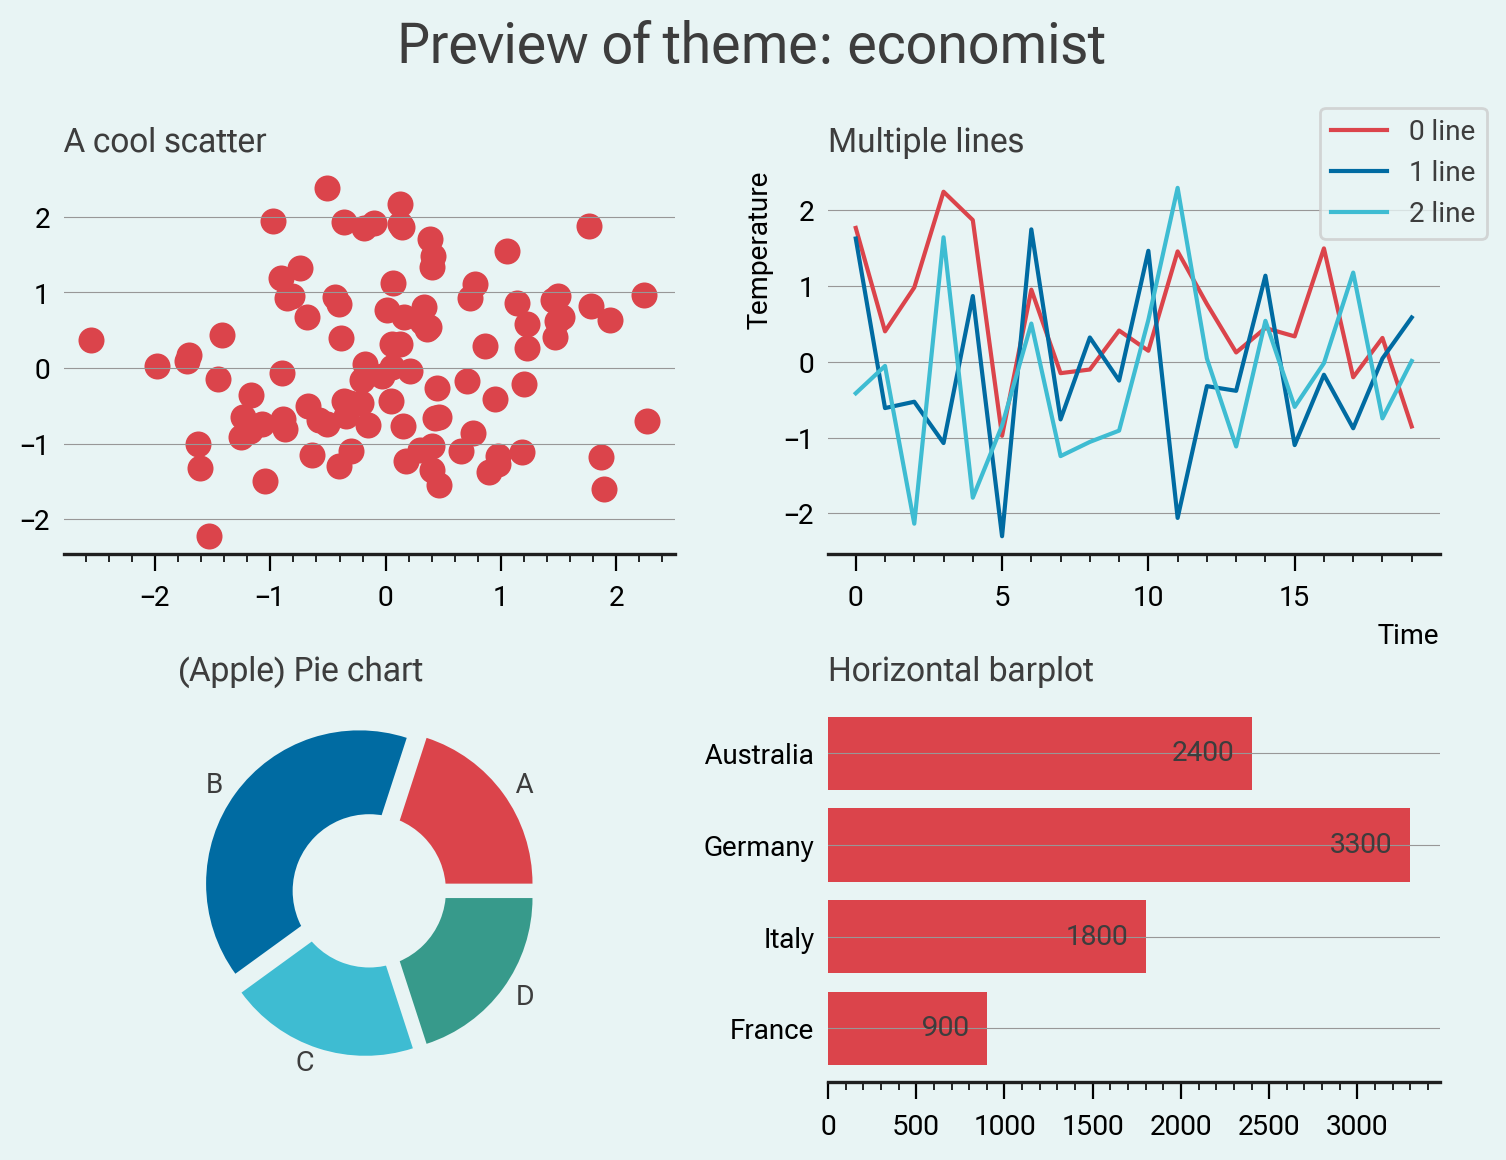
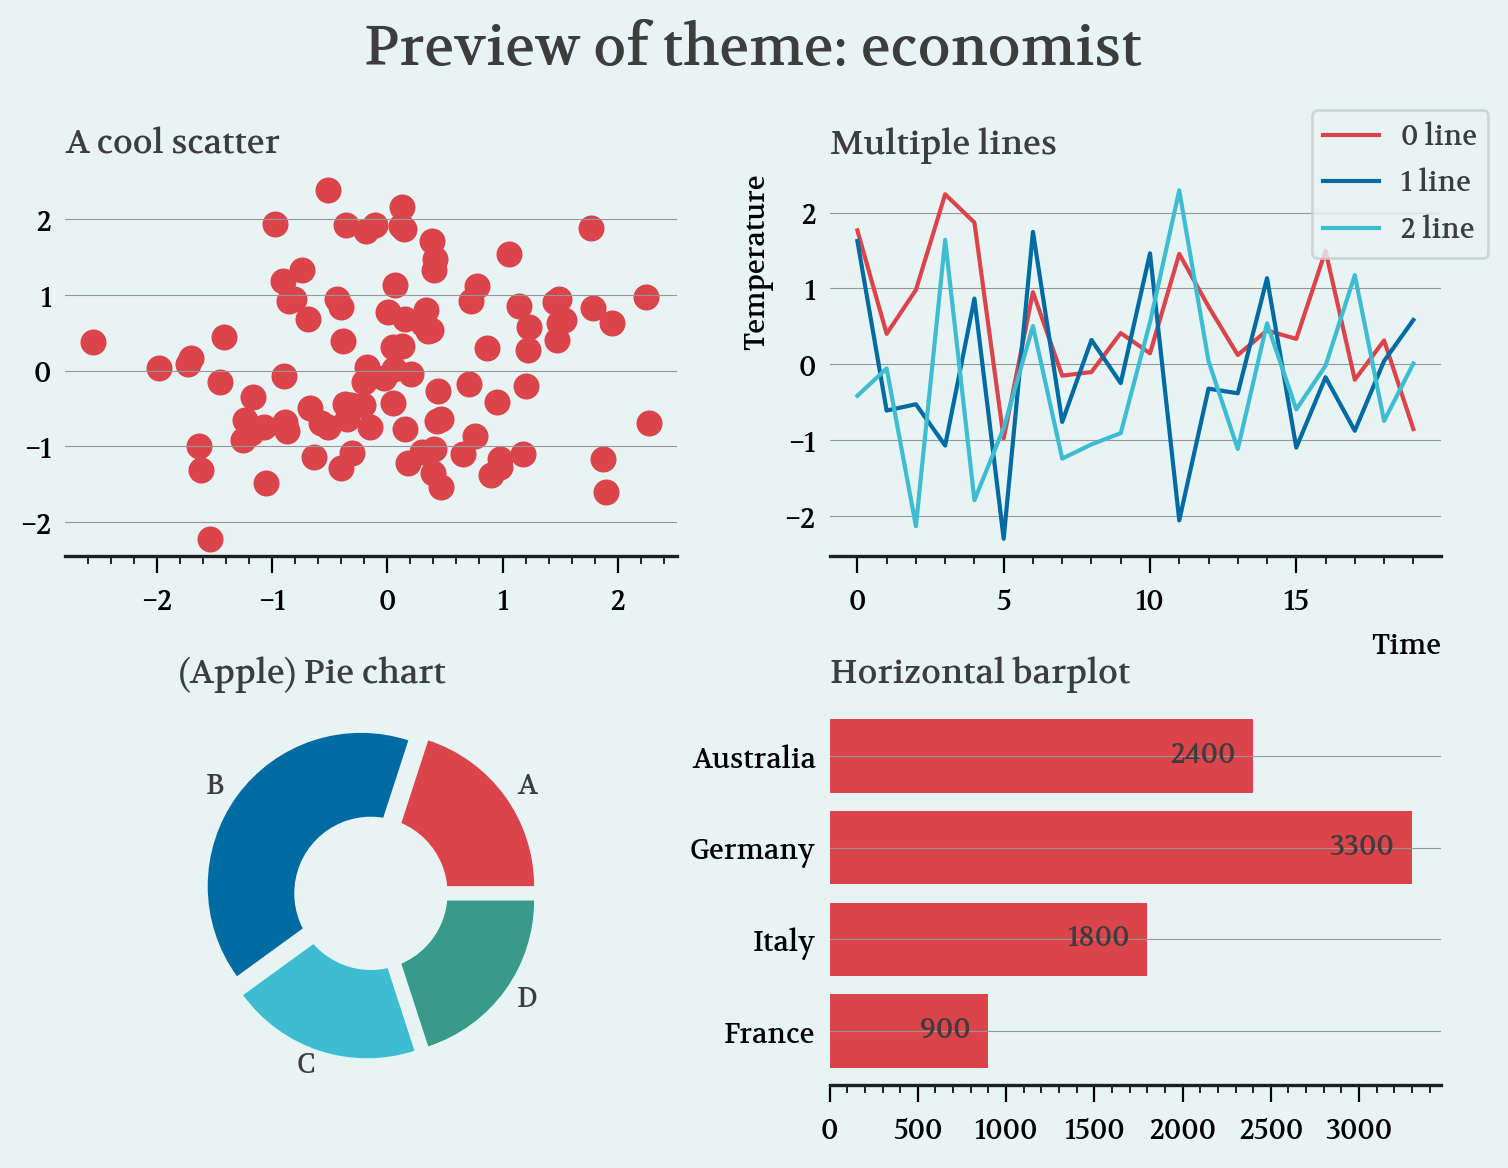
new themes

diff --git a/morethemes/themes.py b/morethemes/themes.py
@@ -1,9 +1,6 @@
-import os
 from cycler import cycler
 from matplotlib import font_manager
 from pyfonts import load_google_font
-
-PACKAGE_DIR = os.path.dirname(os.path.abspath(__file__))
 
 
 def _set_family(family, **kargs):
@@ -159,7 +156,7 @@ economist_theme = {
     "name": "economist",
     "description": "A crisp, data-focused theme with subtle gridlines and sharp contrasts.",
     "theme": {
-        "font.family": _set_family("Roboto Flex"),
+        "font.family": _set_family("Volkhov"),
         "ytick.minor.visible": False,
         "xtick.minor.visible": True,
         "xtick.major.size": 6,
@@ -450,6 +447,84 @@ spotify_theme = {
     },
 }
 
+lighter_theme = {
+    "name": "lighter",
+    "description": "A clean, modern theme inspired by the lighter aesthetic, perfect for technical charts.",
+    "theme": {
+        "font.family": _set_family("Inter"),
+        "axes.spines.top": False,
+        "axes.spines.right": False,
+        "xtick.minor.visible": False,
+        "ytick.minor.visible": False,
+        "xtick.major.size": 0,
+        "ytick.major.size": 0,
+        "ytick.major.pad": 8,
+        "xtick.major.pad": 8,
+        "axes.grid": True,
+        "yaxis.labellocation": "top",
+        "xaxis.labellocation": "right",
+        "grid.linewidth": 0.5,
+        "grid.alpha": 0.3,
+        "grid.color": "#888888",
+        "grid.linestyle": "-",
+        "axes.facecolor": "#f6f8fa",
+        "figure.facecolor": "#f6f8fa",
+        "axes.edgecolor": "#d0d7de",
+        "axes.labelcolor": "#24292f",
+        "axes.titlecolor": "#24292f",
+        "text.color": "#24292f",
+        "xtick.color": "#24292f",
+        "ytick.color": "#24292f",
+        "axes.linewidth": 1.2,
+        "axes.prop_cycle": cycler(
+            "color", ["#0969da", "#1a7f37", "#9a6700", "#d12771", "#8250df", "#6e7781"]
+        ),
+    },
+}
+
+nord_theme = {
+    "name": "nord",
+    "description": "A crisp, Arctic-inspired theme based on the Nord color palette with frosty blues and clean contrasts",
+    "theme": {
+        "font.family": _set_family("Overpass"),
+        "axes.spines.top": False,
+        "axes.spines.right": False,
+        "xtick.minor.visible": False,
+        "ytick.minor.visible": False,
+        "xtick.major.size": 5,
+        "ytick.major.size": 5,
+        "yaxis.labellocation": "top",
+        "xaxis.labellocation": "right",
+        "axes.grid": True,
+        "grid.linewidth": 0.6,
+        "grid.linestyle": "-",
+        "grid.alpha": 0.15,
+        "grid.color": "#4C566A",
+        "axes.linewidth": 1.2,
+        "text.color": "#2E3440",
+        "axes.facecolor": "#ECEFF4",
+        "figure.facecolor": "#ECEFF4",
+        "axes.labelcolor": "#3B4252",
+        "axes.edgecolor": "#3B4252",
+        "xtick.color": "#3B4252",
+        "ytick.color": "#3B4252",
+        "axes.prop_cycle": cycler(
+            "color",
+            [
+                "#5E81AC",
+                "#BF616A",
+                "#D08770",
+                "#EBCB8B",
+                "#A3BE8C",
+                "#B48EAD",
+                "#8FBCBB",
+                "#88C0D0",
+                "#81A1C1",
+            ],
+        ),
+    },
+}
+
 
 ALL_THEMES = {
     "wsj": wsj_theme,
@@ -458,10 +533,12 @@ ALL_THEMES = {
     "ft": ft_theme,
     "nature": nature_theme,
     "economist": economist_theme,
-    "retro": retro_theme,
-    "yellowish": yellowish_theme,
-    "darker": darker_theme,
-    "monoblue": monoblue_theme,
-    "vscode-dark": vscode_dark_theme,
     "spotify": spotify_theme,
+    "vscode-dark": vscode_dark_theme,
+    "nord": nord_theme,
+    "retro": retro_theme,
+    "lighter": lighter_theme,
+    "darker": darker_theme,
+    "yellowish": yellowish_theme,
+    "monoblue": monoblue_theme,
 }

diff --git a/tests/test_main.py b/tests/test_main.py
@@ -11,7 +11,7 @@ def test_version():
 
 def test_invalid_theme():
     """Check that an invalid theme name raises an error"""
-    with pytest.raises(KeyError):
+    with pytest.raises(KeyError, match="Theme 'invalid key' not found. "):
         mt.set_theme("invalid key")
 
 

diff --git a/README.md b/README.md
@@ -32,7 +32,7 @@ function.
 
 ## Themes
 
-**`morethemes`** offers 12 themes at the moment:
+**`morethemes`** offers 14 themes at the moment:
 
 ### WSJ
 
@@ -88,41 +88,14 @@ mt.set_theme("economist")
 
 [![](https://raw.githubusercontent.com/JosephBARBIERDARNAL/morethemes/refs/heads/main/docs/img/economist.png)](https://josephbarbierdarnal.github.io/morethemes/)
 
-### RETRO
+### SPOTIFY
 
 ``` python
 import morethemes as mt
-mt.set_theme("retro")
+mt.set_theme("spotify")
 ```
 
-[![](https://raw.githubusercontent.com/JosephBARBIERDARNAL/morethemes/refs/heads/main/docs/img/retro.png)](https://josephbarbierdarnal.github.io/morethemes/)
-
-### YELLOWISH
-
-``` python
-import morethemes as mt
-mt.set_theme("yellowish")
-```
-
-[![](https://raw.githubusercontent.com/JosephBARBIERDARNAL/morethemes/refs/heads/main/docs/img/yellowish.png)](https://josephbarbierdarnal.github.io/morethemes/)
-
-### DARKER
-
-``` python
-import morethemes as mt
-mt.set_theme("darker")
-```
-
-[![](https://raw.githubusercontent.com/JosephBARBIERDARNAL/morethemes/refs/heads/main/docs/img/darker.png)](https://josephbarbierdarnal.github.io/morethemes/)
-
-### MONOBLUE
-
-``` python
-import morethemes as mt
-mt.set_theme("monoblue")
-```
-
-[![](https://raw.githubusercontent.com/JosephBARBIERDARNAL/morethemes/refs/heads/main/docs/img/monoblue.png)](https://josephbarbierdarnal.github.io/morethemes/)
+[![](https://raw.githubusercontent.com/JosephBARBIERDARNAL/morethemes/refs/heads/main/docs/img/spotify.png)](https://josephbarbierdarnal.github.io/morethemes/)
 
 ### VSCODE-DARK
 
@@ -133,11 +106,56 @@ mt.set_theme("vscode-dark")
 
 [![](https://raw.githubusercontent.com/JosephBARBIERDARNAL/morethemes/refs/heads/main/docs/img/vscode-dark.png)](https://josephbarbierdarnal.github.io/morethemes/)
 
-### SPOTIFY
+### NORD
 
 ``` python
 import morethemes as mt
-mt.set_theme("spotify")
+mt.set_theme("nord")
 ```
 
-[![](https://raw.githubusercontent.com/JosephBARBIERDARNAL/morethemes/refs/heads/main/docs/img/spotify.png)](https://josephbarbierdarnal.github.io/morethemes/)
+[![](https://raw.githubusercontent.com/JosephBARBIERDARNAL/morethemes/refs/heads/main/docs/img/nord.png)](https://josephbarbierdarnal.github.io/morethemes/)
+
+### RETRO
+
+``` python
+import morethemes as mt
+mt.set_theme("retro")
+```
+
+[![](https://raw.githubusercontent.com/JosephBARBIERDARNAL/morethemes/refs/heads/main/docs/img/retro.png)](https://josephbarbierdarnal.github.io/morethemes/)
+
+### LIGHTER
+
+``` python
+import morethemes as mt
+mt.set_theme("lighter")
+```
+
+[![](https://raw.githubusercontent.com/JosephBARBIERDARNAL/morethemes/refs/heads/main/docs/img/lighter.png)](https://josephbarbierdarnal.github.io/morethemes/)
+
+### DARKER
+
+``` python
+import morethemes as mt
+mt.set_theme("darker")
+```
+
+[![](https://raw.githubusercontent.com/JosephBARBIERDARNAL/morethemes/refs/heads/main/docs/img/darker.png)](https://josephbarbierdarnal.github.io/morethemes/)
+
+### YELLOWISH
+
+``` python
+import morethemes as mt
+mt.set_theme("yellowish")
+```
+
+[![](https://raw.githubusercontent.com/JosephBARBIERDARNAL/morethemes/refs/heads/main/docs/img/yellowish.png)](https://josephbarbierdarnal.github.io/morethemes/)
+
+### MONOBLUE
+
+``` python
+import morethemes as mt
+mt.set_theme("monoblue")
+```
+
+[![](https://raw.githubusercontent.com/JosephBARBIERDARNAL/morethemes/refs/heads/main/docs/img/monoblue.png)](https://josephbarbierdarnal.github.io/morethemes/)

diff --git a/docs/index.md b/docs/index.md
@@ -16,7 +16,7 @@ line of code.
 
 ## Themes
 
-**`morethemes`** offers 12 themes at the moment:
+**`morethemes`** offers 14 themes at the moment:
 
 === "WSJ"
 
@@ -84,49 +84,16 @@ line of code.
 
     A crisp, data-focused theme with subtle gridlines and sharp contrasts.
 
-=== "RETRO"
+=== "SPOTIFY"
 
-    ![](img/retro.png)
-
-    ```python
-    import morethemes as mt
-    mt.set_theme("retro")
-    ```
-
-    A nostalgic theme inspired by vintage graphics and retro gaming.
-
-=== "YELLOWISH"
-
-    ![](img/yellowish.png)
+    ![](img/spotify.png)
 
     ```python
     import morethemes as mt
-    mt.set_theme("yellowish")
+    mt.set_theme("spotify")
     ```
 
-    A bold, National Geographic-inspired theme with a warm yellow backdrop
-
-=== "DARKER"
-
-    ![](img/darker.png)
-
-    ```python
-    import morethemes as mt
-    mt.set_theme("darker")
-    ```
-
-    A sleek, no-frills dark theme with high contrast and a modern feel
-
-=== "MONOBLUE"
-
-    ![](img/monoblue.png)
-
-    ```python
-    import morethemes as mt
-    mt.set_theme("monoblue")
-    ```
-
-    A high-contrast theme using shades of blue to emphasize data trends and maintain a clean, professional aesthetic.
+    A dark theme inspired by Spotify branding.
 
 === "VSCODE-DARK"
 
@@ -139,16 +106,71 @@ line of code.
 
     A dark theme inspired by Visual Studio Code's dark mode.
 
-=== "SPOTIFY"
+=== "NORD"
 
-    ![](img/spotify.png)
+    ![](img/nord.png)
 
     ```python
     import morethemes as mt
-    mt.set_theme("spotify")
+    mt.set_theme("nord")
     ```
 
-    A dark theme inspired by Spotify branding.
+    A crisp, Arctic-inspired theme based on the Nord color palette with frosty blues and clean contrasts
+
+=== "RETRO"
+
+    ![](img/retro.png)
+
+    ```python
+    import morethemes as mt
+    mt.set_theme("retro")
+    ```
+
+    A nostalgic theme inspired by vintage graphics and retro gaming.
+
+=== "LIGHTER"
+
+    ![](img/lighter.png)
+
+    ```python
+    import morethemes as mt
+    mt.set_theme("lighter")
+    ```
+
+    A clean, modern theme inspired by the lighter aesthetic, perfect for technical charts.
+
+=== "DARKER"
+
+    ![](img/darker.png)
+
+    ```python
+    import morethemes as mt
+    mt.set_theme("darker")
+    ```
+
+    A sleek, no-frills dark theme with high contrast and a modern feel
+
+=== "YELLOWISH"
+
+    ![](img/yellowish.png)
+
+    ```python
+    import morethemes as mt
+    mt.set_theme("yellowish")
+    ```
+
+    A bold, National Geographic-inspired theme with a warm yellow backdrop
+
+=== "MONOBLUE"
+
+    ![](img/monoblue.png)
+
+    ```python
+    import morethemes as mt
+    mt.set_theme("monoblue")
+    ```
+
+    A high-contrast theme using shades of blue to emphasize data trends and maintain a clean, professional aesthetic.
 
 <br>
 
